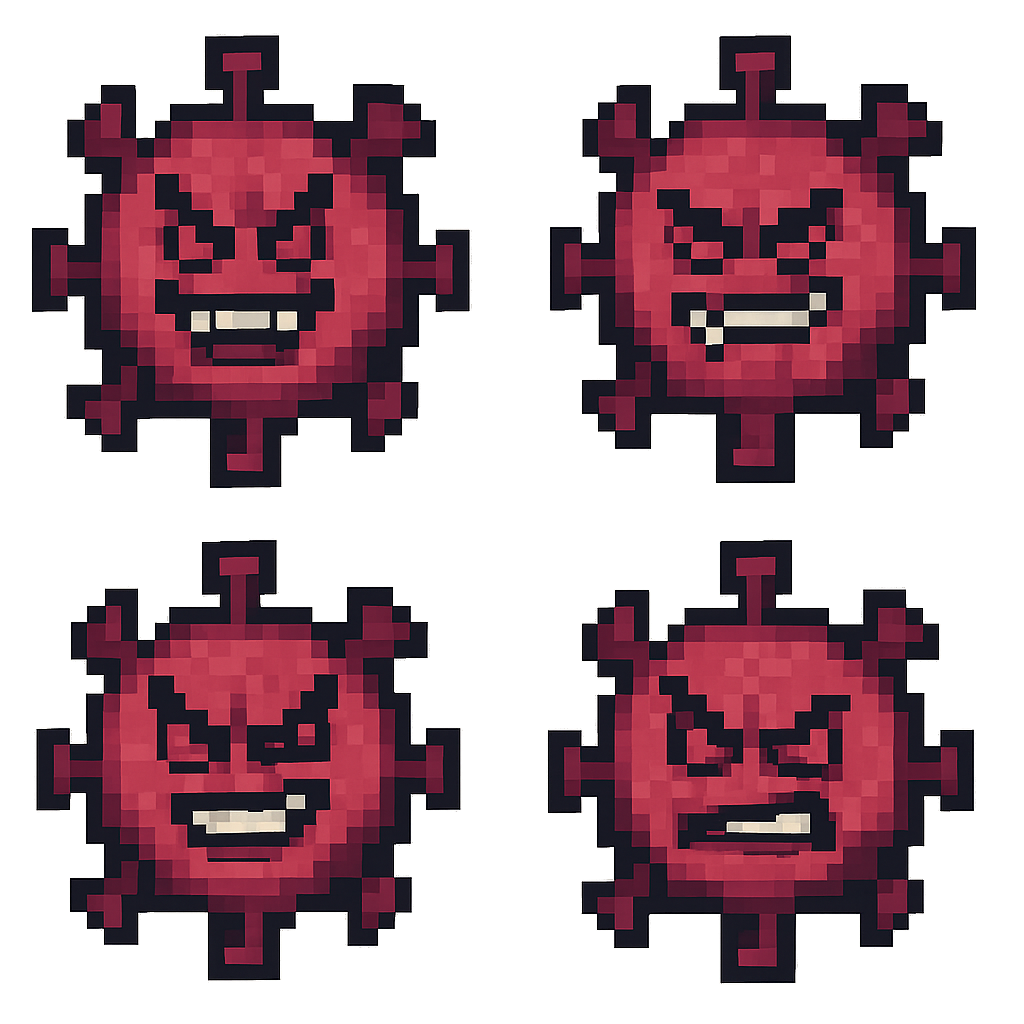
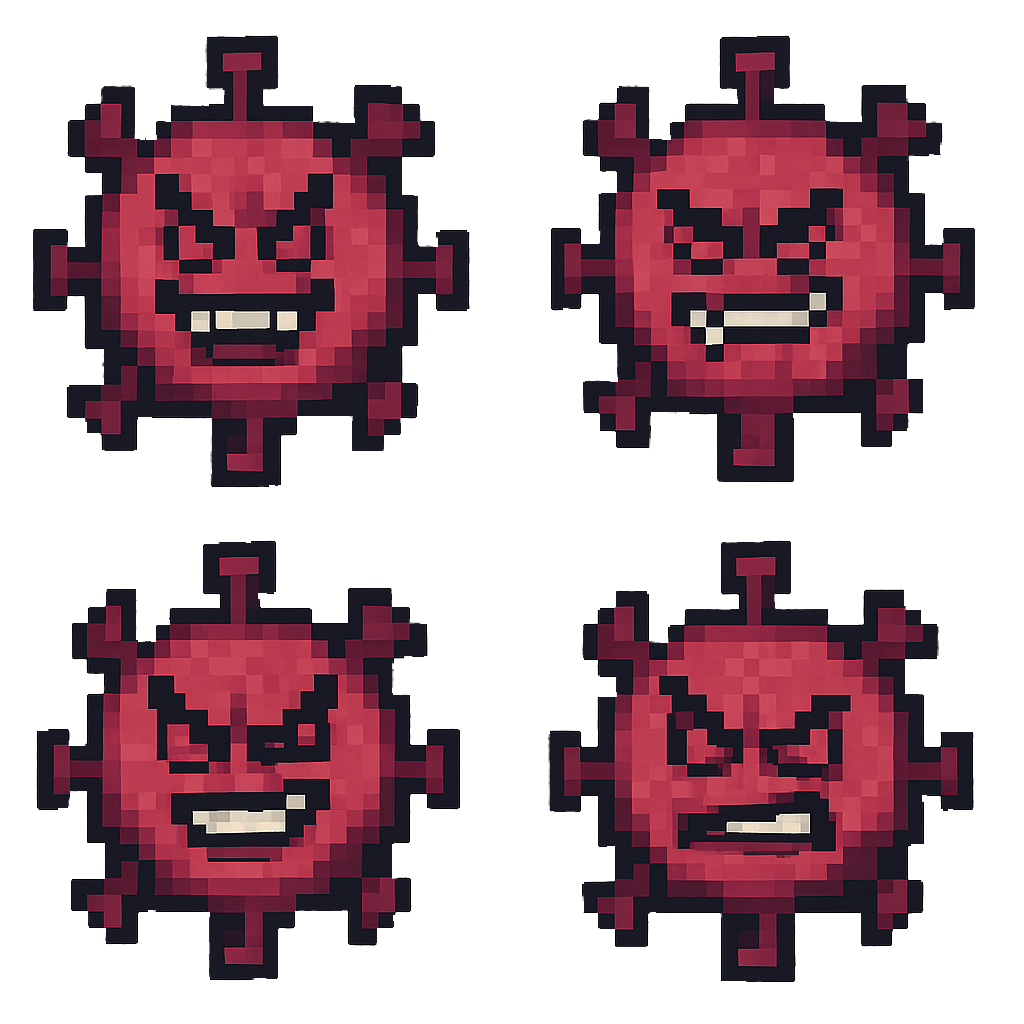
lógica do chefe + animações + refinamento do sprite

Changed region(s): [[0.4062, 0.2188, 0.4375, 0.25]]

diff --git a/Assets/Scripts/Inimigos/Chefão.cs b/Assets/Scripts/Inimigos/Chefão.cs
@@ -1,0 +1,74 @@
+using UnityEngine;
+using System.Collections;
+
+public class Chefão : MonoBehaviour
+{
+    [Header("Spawn-Scale Settings")]
+    [Tooltip("Curve controlling scale over [0…1]")]
+    [SerializeField] private AnimationCurve scaleCurve = AnimationCurve.EaseInOut(0, 0, 1, 1);
+    [Tooltip("Scale at t=0")]
+    [SerializeField] private Vector3 startScale = Vector3.zero;
+    [Tooltip("Scale at t=1")]
+    [SerializeField] private Vector3 normalScale = Vector3.one;
+    [Tooltip("How long the scaling takes (seconds)")]
+    [SerializeField] private float scaleDuration = 0.8f;
+    
+    [Header("Growth Settings")]
+    [Tooltip("Final scale after spawn")]
+    [SerializeField] private Vector3 endScale = new Vector3(1.5f, 1.5f, 1.5f);
+    [Tooltip("Growth duration after spawn (seconds)")]
+    [SerializeField] private float growthDuration = 5f;
+    [Tooltip("Curve for post-spawn growth")]
+    [SerializeField] private AnimationCurve growthCurve = AnimationCurve.EaseInOut(0, 0, 1, 1);
+
+    private Animator animator;
+
+    void Start()
+    {
+        animator = GetComponentInParent<Animator>();
+        transform.localScale = startScale;
+        StartCoroutine(ScaleUp());
+        animator.Play("Chefao_spawn");
+    }
+
+    // Corrotina para crescimento inicial (spawn)
+    private IEnumerator ScaleUp()
+    {
+        float elapsed = 0f;
+        while (elapsed < scaleDuration)
+        {
+            elapsed += Time.deltaTime;
+            float t = Mathf.Clamp01(elapsed / scaleDuration);
+            float eval = scaleCurve.Evaluate(t);
+            transform.localScale = Vector3.LerpUnclamped(startScale, normalScale, eval);
+            yield return null;
+        }
+        transform.localScale = normalScale;
+    }
+
+    // Corrotina para crescimento pós-spawn
+    private IEnumerator GrowToEndScale()
+    {
+        Vector3 initialScale = transform.localScale;
+        float elapsed = 0f;
+        
+        while (elapsed < growthDuration)
+        {
+            elapsed += Time.deltaTime;
+            float t = Mathf.Clamp01(elapsed / growthDuration);
+            float eval = growthCurve.Evaluate(t);
+            transform.localScale = Vector3.LerpUnclamped(initialScale, endScale, eval);
+            yield return null;
+        }
+        
+        transform.localScale = endScale;
+    }
+
+    // Chamado ao final da animação de spawn
+    public void OnSpawnAnimationEnd()
+    {
+        Debug.Log("✔ OnSpawnAnimationEnd called!");
+        animator.Play("Chefao");
+        StartCoroutine(GrowToEndScale()); // Inicia o crescimento até a escala final
+    }
+}
